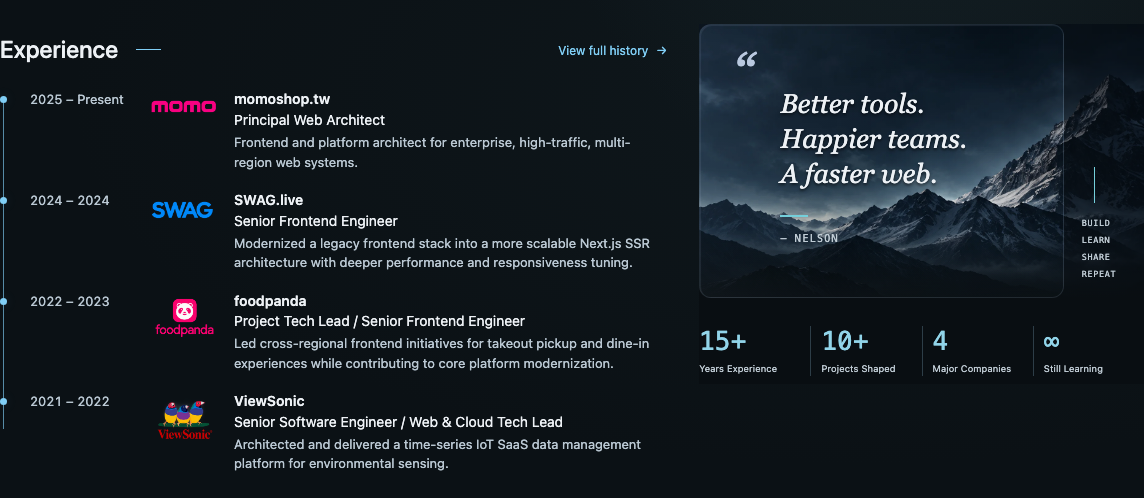
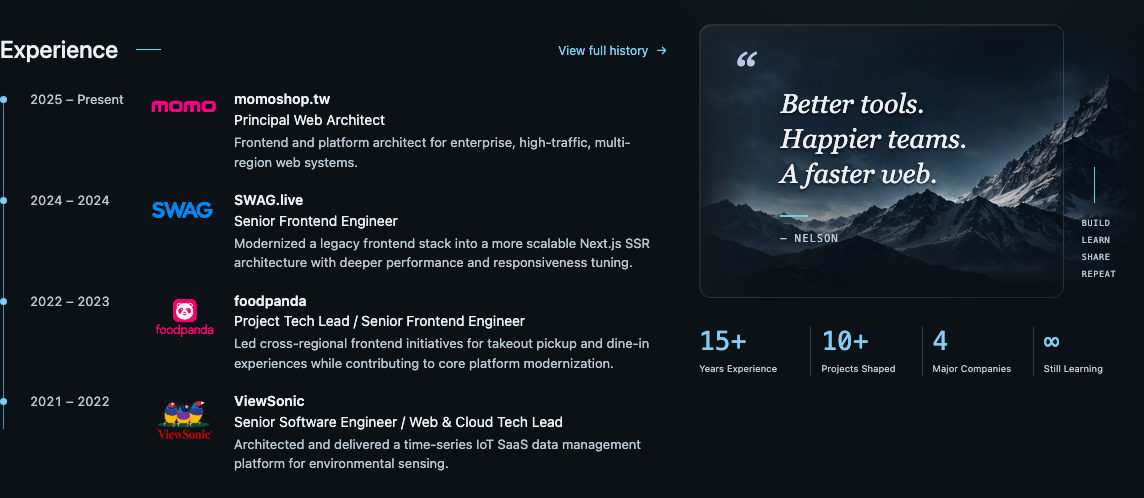
fix: blend profile artwork and make spacing checks portable

diff --git a/components/layout/profile-2026-approach.module.css b/components/layout/profile-2026-approach.module.css
@@ -3,7 +3,7 @@
   align-self: start;
   min-width: 0;
   overflow: hidden;
-  background: #0b1115;
+  background: transparent;
   color: #edf1f5;
 }
 .scene {
@@ -13,7 +13,16 @@
   grid-template-columns: minmax(0, 1fr) 14%;
   gap: 4%;
   padding: 0;
-  background: linear-gradient(0deg, #0b1115, transparent 24%), url('/profile/2026/div-mt.webp') center / cover no-repeat;
+}
+.scene::before {
+  content: "";
+  position: absolute;
+  inset: 0;
+  z-index: -1;
+  pointer-events: none;
+  background: url('/profile/2026/div-mt.webp') center / cover no-repeat;
+  mask-image: linear-gradient(to right, transparent, black 12%, black 82%, transparent), linear-gradient(to bottom, transparent, black 12%, black 65%, transparent);
+  mask-composite: intersect;
 }
 .window {
   position: relative;
@@ -21,9 +30,10 @@
   padding: 17% 7% 14% 22%;
   border: 1px solid #a6bfce26;
   border-radius: 12px;
-  background: linear-gradient(125deg, #b6d3ee12, #0b11151a 55%, #0b11152e);
-  box-shadow: 0 0 0 100vmax #070c1080, inset 1px 1px 1px #c2dcf21a;
+  background: linear-gradient(125deg, #172531e6, #0b1115a6 55%, #0b1115c9);
+  box-shadow: inset 1px 1px 1px #c2dcf21a;
 }
+:global(.theme-dark) .window { background: linear-gradient(125deg, #b6d3ee12, #0b11151a 55%, #0b11152e); }
 .quoteMark {
   position: absolute;
   top: 8%;
@@ -58,7 +68,7 @@
   list-style: none;
   margin: 0 0 16px;
   padding: 0;
-  color: #c0ccd5;
+  color: var(--profile-muted);
   font: clamp(8px, 1.9cqi, 11px)/2 var(--font-mono);
   letter-spacing: 0.08em;
   text-transform: uppercase;
@@ -66,11 +76,11 @@
 }
 .motto::before { content: ""; display: block; height: 36px; width: 1px; background: #74cfda; margin: 0 0 12px 12px; }
 .stats { position: relative; display: grid; grid-template-columns: repeat(4, minmax(0, 1fr)); margin: 0; padding: 28px 0 8px; }
-.stats > div { display: flex; flex-direction: column; min-width: 0; padding-inline: 10px; border-left: 1px solid #2d3d47; }
+.stats > div { display: flex; flex-direction: column; min-width: 0; padding-inline: 10px; border-left: 1px solid var(--profile-border); }
 .stats > div:first-child { border-left: 0; padding-left: 0; }
 .stats > div:last-child { padding-right: 0; }
-.stats dt { color: #c0ccd5; font-size: clamp(9px, 2.1cqi, 12px); line-height: 1.5; overflow-wrap: anywhere; }
-.stats dd { order: -1; margin: 0 0 4px; color: #91d4e9; font: 26px/1.2 var(--font-mono); }
+.stats dt { color: var(--profile-muted); font-size: clamp(9px, 2.1cqi, 12px); line-height: 1.5; overflow-wrap: anywhere; }
+.stats dd { order: -1; margin: 0 0 4px; color: var(--profile-accent); font: 26px/1.2 var(--font-mono); }
 @container (max-width: 340px) {
   .stats { grid-template-columns: repeat(2, minmax(0, 1fr)); gap: 20px 0; }
   .stats > div:nth-child(3) { border-left: 0; padding-left: 0; }
@@ -80,7 +90,8 @@
 }
 @media print {
   .approach { background: white; color: black; }
-  .scene, .window { background: none; box-shadow: none; }
+  .scene::before { display: none; }
+  .window, :global(.theme-dark) .window { background: none; box-shadow: none; }
   .window blockquote { text-shadow: none; }
   .window figcaption, .quoteMark, .motto, .stats dt, .stats dd { color: black; }
 }

diff --git a/e2e/profile-experience.spec.ts b/e2e/profile-experience.spec.ts
@@ -15,9 +15,7 @@ for (const theme of ["light", "dark"] as const) {
         expect(await section.evaluate((node) => [node, ...node.querySelectorAll("h2, h3, p, blockquote, dt")]
           .every((item) => item.scrollWidth <= item.clientWidth))).toBe(true);
         expect(await page.evaluate(() => document.documentElement.scrollWidth <= innerWidth)).toBe(true);
-        const heading = await section.locator("h2").boundingBox();
         const history = await section.locator("summary").boundingBox();
-        expect(heading!.x + heading!.width).toBeGreaterThan(history!.x);
         // Heading text must end before the history control, even in translated layouts.
         expect(await section.locator("h2").evaluate((node) => {
           const range = document.createRange();
@@ -25,7 +23,18 @@ for (const theme of ["light", "dark"] as const) {
           return range.getBoundingClientRect().right;
         })).toBeLessThanOrEqual(history!.x);
         if (width === 1440 && locale === "en") {
-          expect(await section.evaluate((node) => node.clientHeight)).toBeLessThan(500);
+          // Measure whitespace between entries independently of platform font metrics.
+          const gaps = await timeline.evaluate((node) => {
+            const rows = [...node.children];
+            return rows.slice(0, -1).map((row, index) => {
+              const contentBottom = Math.max(...[...row.children].map((child) => child.getBoundingClientRect().bottom));
+              return rows[index + 1].getBoundingClientRect().top - contentBottom;
+            });
+          });
+          for (const gap of gaps) {
+            expect(gap).toBeGreaterThanOrEqual(12);
+            expect(gap).toBeLessThanOrEqual(24);
+          }
           expect(await section.locator("dt").evaluateAll((labels) => labels.every((label) =>
             label.getBoundingClientRect().height <= parseFloat(getComputedStyle(label).lineHeight) + 1,
           ))).toBe(true);

diff --git a/components/layout/profile-2026-sections.module.css b/components/layout/profile-2026-sections.module.css
@@ -1,7 +1,6 @@
 .heading { display: flex; align-items: center; gap: 18px; font-size: 22px; line-height: 1.3; font-weight: 500; margin: 0 0 28px; }
 .heading > span { width: 25px; height: 1px; background: var(--profile-accent); }
 .experience { display: grid; grid-template-columns: minmax(0, 1.5fr) minmax(0, 1fr); gap: 32px; padding: 24px 0; }
-:global(.theme-dark) .experience { background: radial-gradient(ellipse at 75% 20%, #1b2c3238, transparent 65%); }
 .work { display: grid; grid-template-columns: minmax(0, 3fr) minmax(0, 0.9fr); gap: 24px; border-top: 1px solid var(--profile-border); padding-top: 28px; }
 .projectGrid { display: grid; grid-template-columns: repeat(3, minmax(0, 1fr)); gap: 12px; }
 .project { --project-art: url('/profile/2026/div-a.webp'); --project-overlay: linear-gradient(#edf2f5f5, #edf2f5c9 65%, #edf2f5eb); display: flex; flex-direction: column; min-width: 0; min-height: 300px; padding: 22px; border: 1px solid var(--profile-border); border-radius: 12px; background: var(--project-overlay), var(--project-art) center / cover no-repeat, var(--profile-surface); }

diff --git a/e2e/profile-approach.spec.ts b/e2e/profile-approach.spec.ts
@@ -14,7 +14,7 @@ for (const theme of ["light", "dark"] as const) {
         await panel.scrollIntoViewIfNeeded();
         await expect(panel.locator("blockquote")).toBeVisible();
         await expect(panel.locator("dd")).toHaveText(["15+", "10+", "4", "∞"]);
-        expect(await panel.evaluate((node) => getComputedStyle(node).backgroundColor)).toBe("rgb(11, 17, 21)");
+        expect(await panel.evaluate((node) => getComputedStyle(node).backgroundColor)).toBe("rgba(0, 0, 0, 0)");
         expect(await panel.evaluate((node) => [node, ...node.querySelectorAll("blockquote, li, dt")].every((item) => item.scrollWidth <= item.clientWidth))).toBe(true);
         expect(await page.evaluate(() => document.documentElement.scrollWidth <= innerWidth)).toBe(true);
         await panel.screenshot({ path: testInfo.outputPath(`approach-${locale}-${theme}-${width}.png`) });
